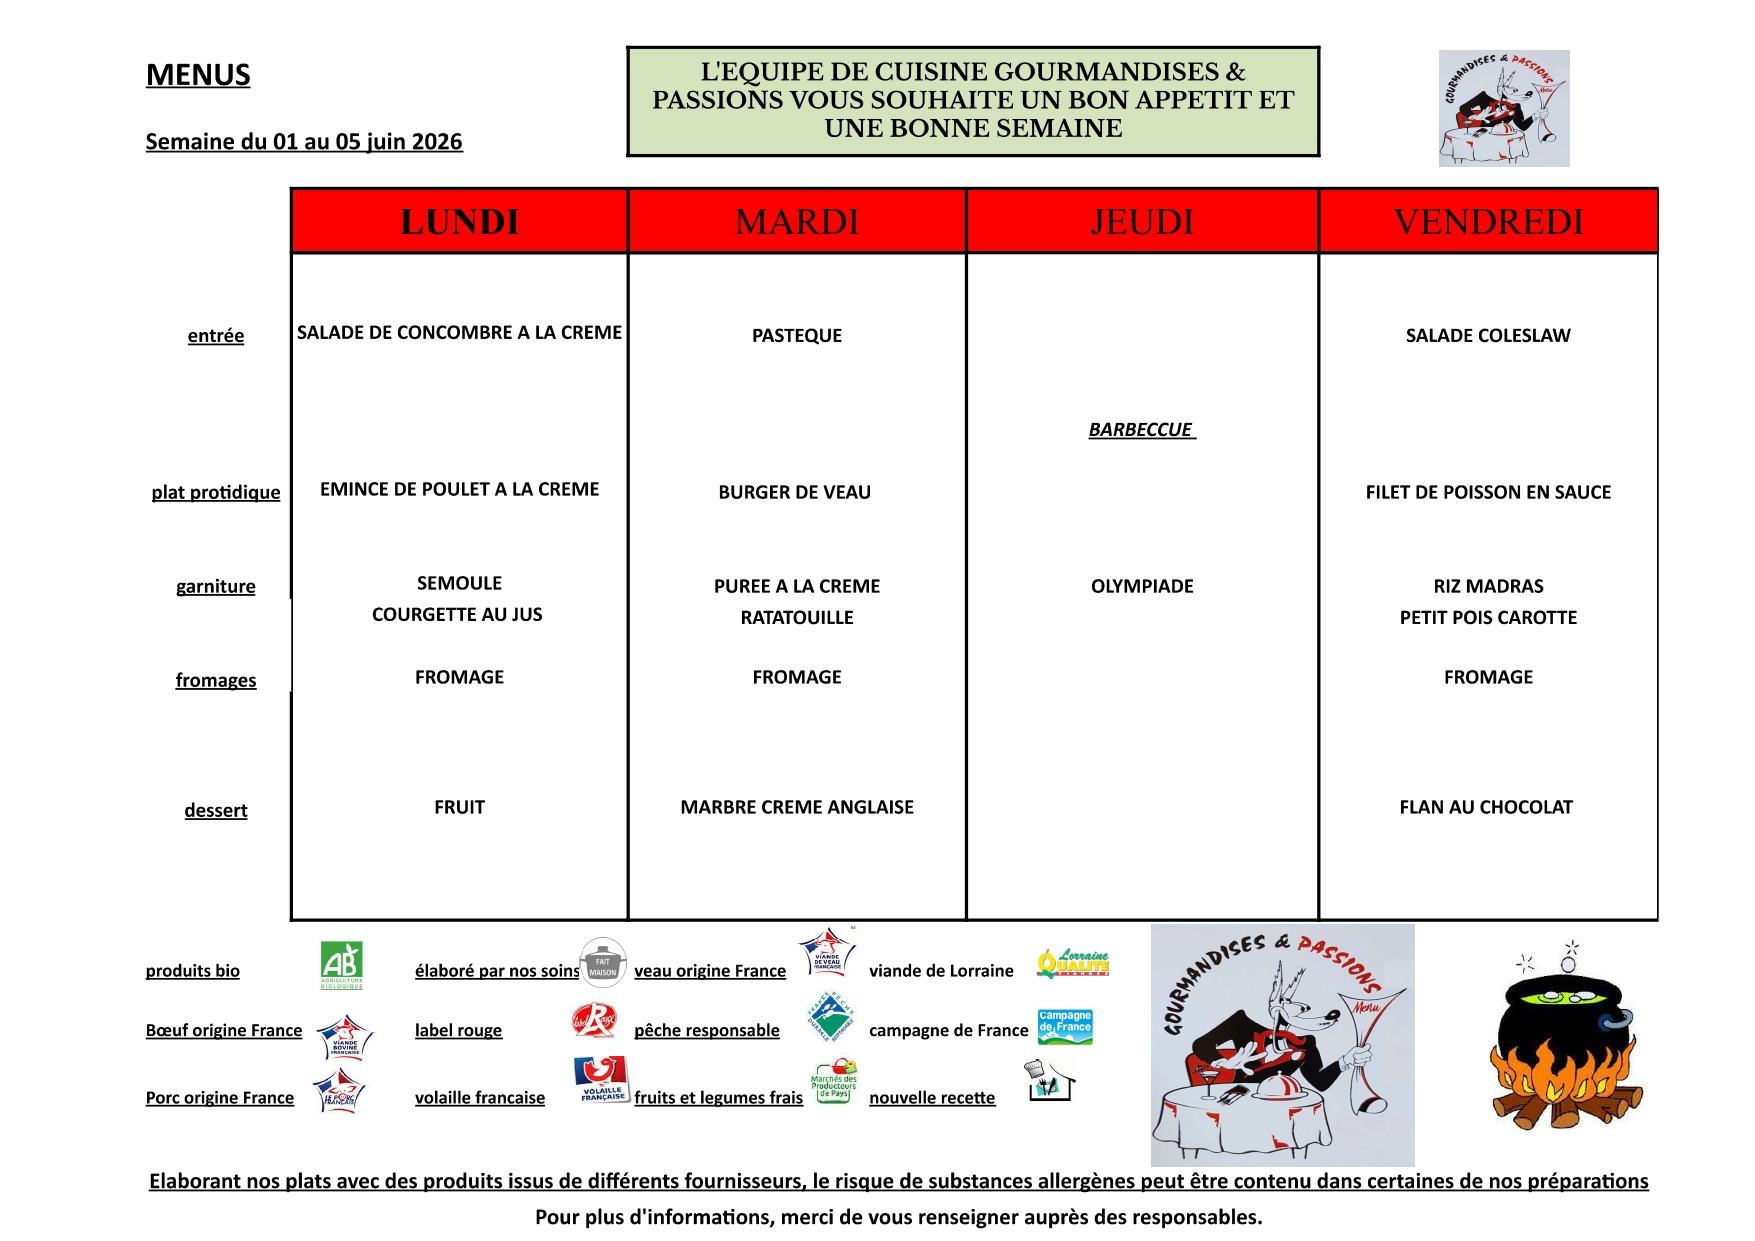
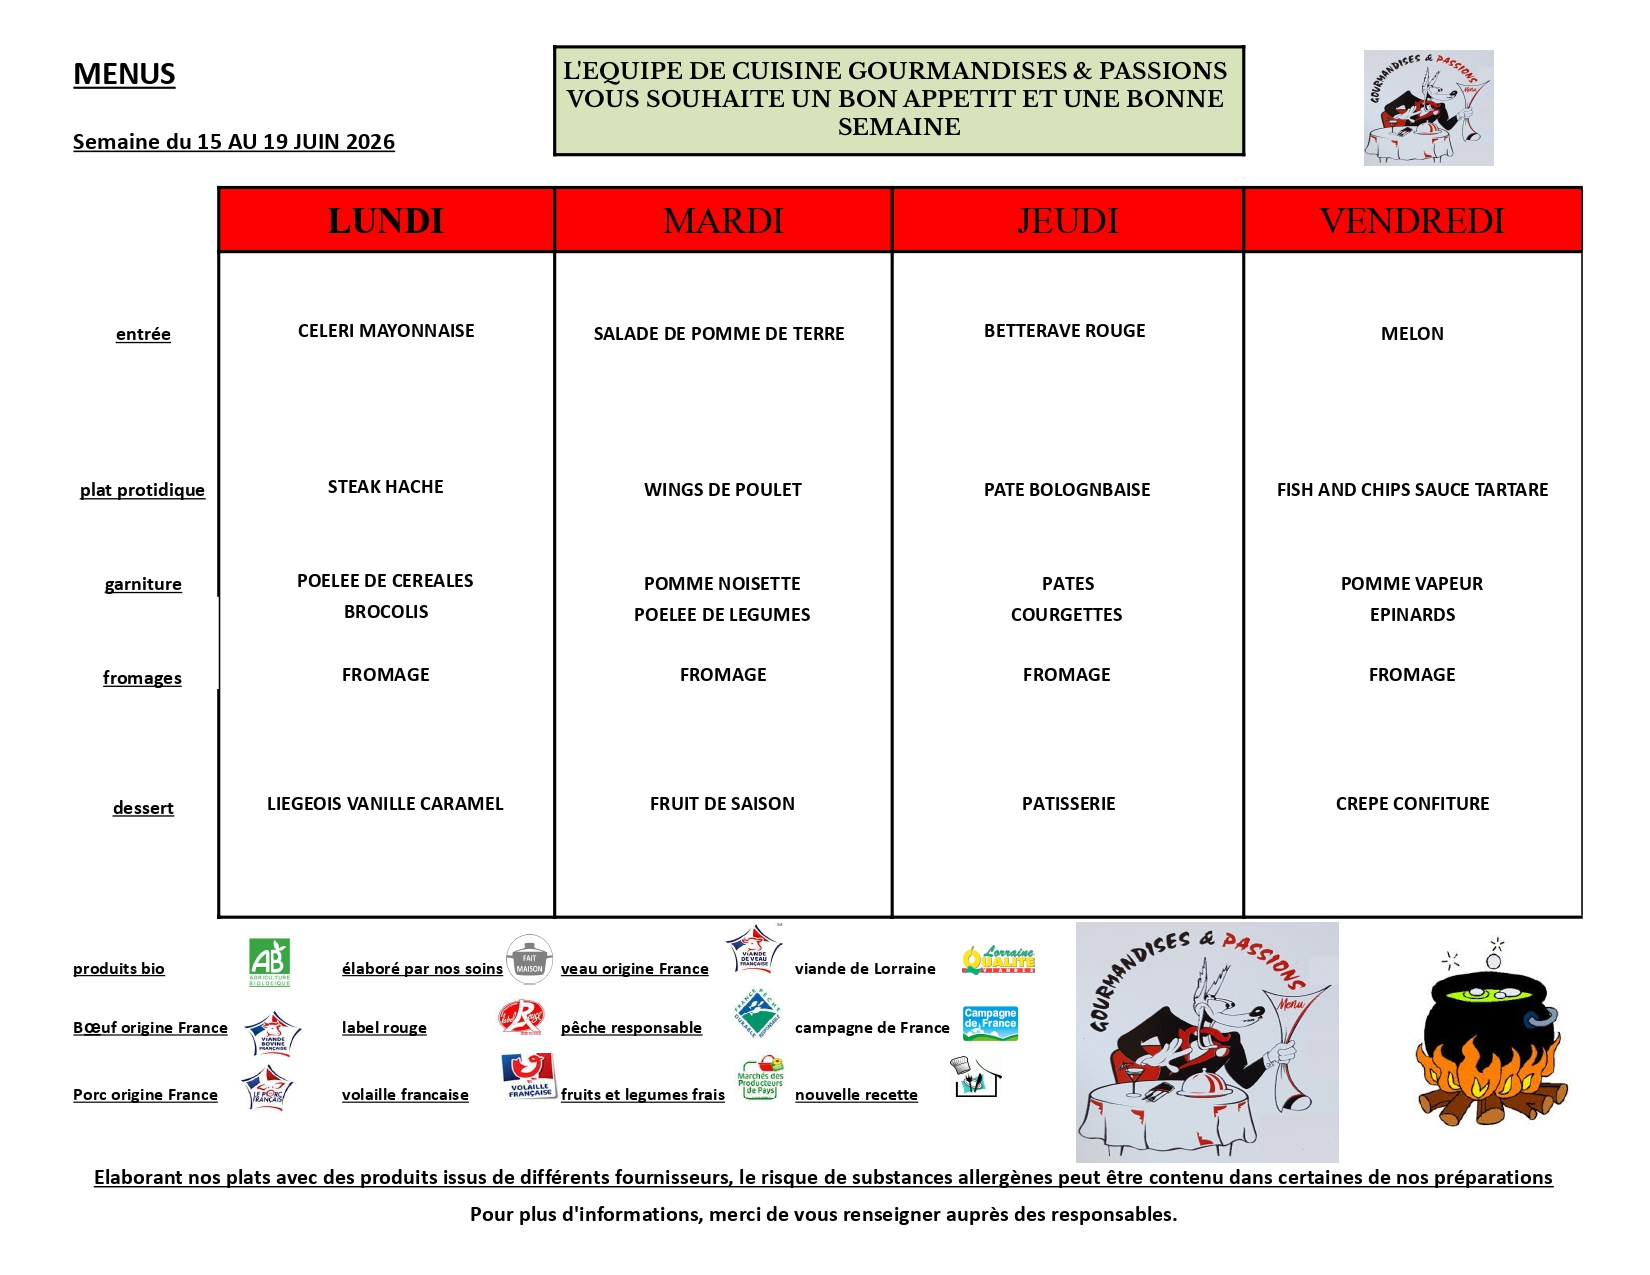
Mise à jour des menus : modification Cantine et Maternelle, suppression Cafétéria avec message de fermeture

diff --git a/app/restauration/cafeteria/page.tsx b/app/restauration/cafeteria/page.tsx
@@ -1,13 +1,10 @@
 "use client";
 
-import { ChevronDown, Download } from "lucide-react";
+import { ChevronDown, Coffee } from "lucide-react";
 import Navbar from "@/app/components/Navbar";
 import Footer from "@/app/components/Footer";
-import MenuImageWithLightbox from "@/app/components/MenuImageWithLightbox";
 import { useShowMoreText } from "@/app/hooks/useShowMoreText";
 import { CONTAINER_CLASS, SECTION_PADDING } from "@/app/lib/constants";
-
-const MENU_CAFETERIA = "/Images/Menus/Menu_Cafeteriat.jpg";
 
 export default function CafeteriaPage() {
   const {
@@ -44,7 +41,7 @@ export default function CafeteriaPage() {
                   est un lieu de convivialite ou les eleves peuvent se retrouver autour d&apos;un repas de qualite.
                 </p>
                 <p className="font-[var(--font-inter)] text-sm sm:text-base lg:text-lg text-gray-700 leading-relaxed font-semibold text-[#8C1515]">
-                  Decouvrez ci-dessous nos menus de la semaine.
+                  La cafétéria est fermée pour la fin de l&apos;année scolaire.
                 </p>
               </div>
               {needsShowMore && (
@@ -63,20 +60,16 @@ export default function CafeteriaPage() {
             </div>
           </div>
 
-          <div className="flex flex-col items-center gap-4">
-            <MenuImageWithLightbox
-              src={MENU_CAFETERIA}
-              alt="Menu Cafeteria du Lycee - Les Recollets"
-              rotated={false}
-            />
-            <a
-              href={MENU_CAFETERIA}
-              download="Menu-Cafeteria-Les-Recollets.jpg"
-              className="flex items-center gap-2 px-4 sm:px-6 py-2.5 sm:py-3 bg-[#8C1515] text-white rounded-lg hover:bg-[#a01919] transition-colors font-[var(--font-inter)] font-semibold shadow-lg"
-            >
-              <Download size={20} />
-              Télécharger le menu
-            </a>
+          <div className="max-w-md mx-auto p-8 rounded-2xl bg-gradient-to-br from-[#FFF5F5] to-[#FFF0F0] border border-[#FAD2D2] shadow-md flex flex-col items-center text-center gap-4 animate-fade-in">
+            <div className="w-16 h-16 rounded-full bg-[#FEE2E2] flex items-center justify-center text-[#8C1515] border border-[#FCA5A5] mb-2">
+              <Coffee size={32} className="animate-pulse" />
+            </div>
+            <h3 className="font-[var(--font-playfair)] text-2xl font-bold text-[#8C1515]">
+              Cafeteriat Fermée
+            </h3>
+            <p className="font-[var(--font-inter)] text-sm sm:text-base text-gray-700 leading-relaxed">
+              La cafétéria est fermée pour la fin de l&apos;année scolaire. Nous aurons le plaisir de vous retrouver à la rentrée.
+            </p>
           </div>
         </div>
       </section>
